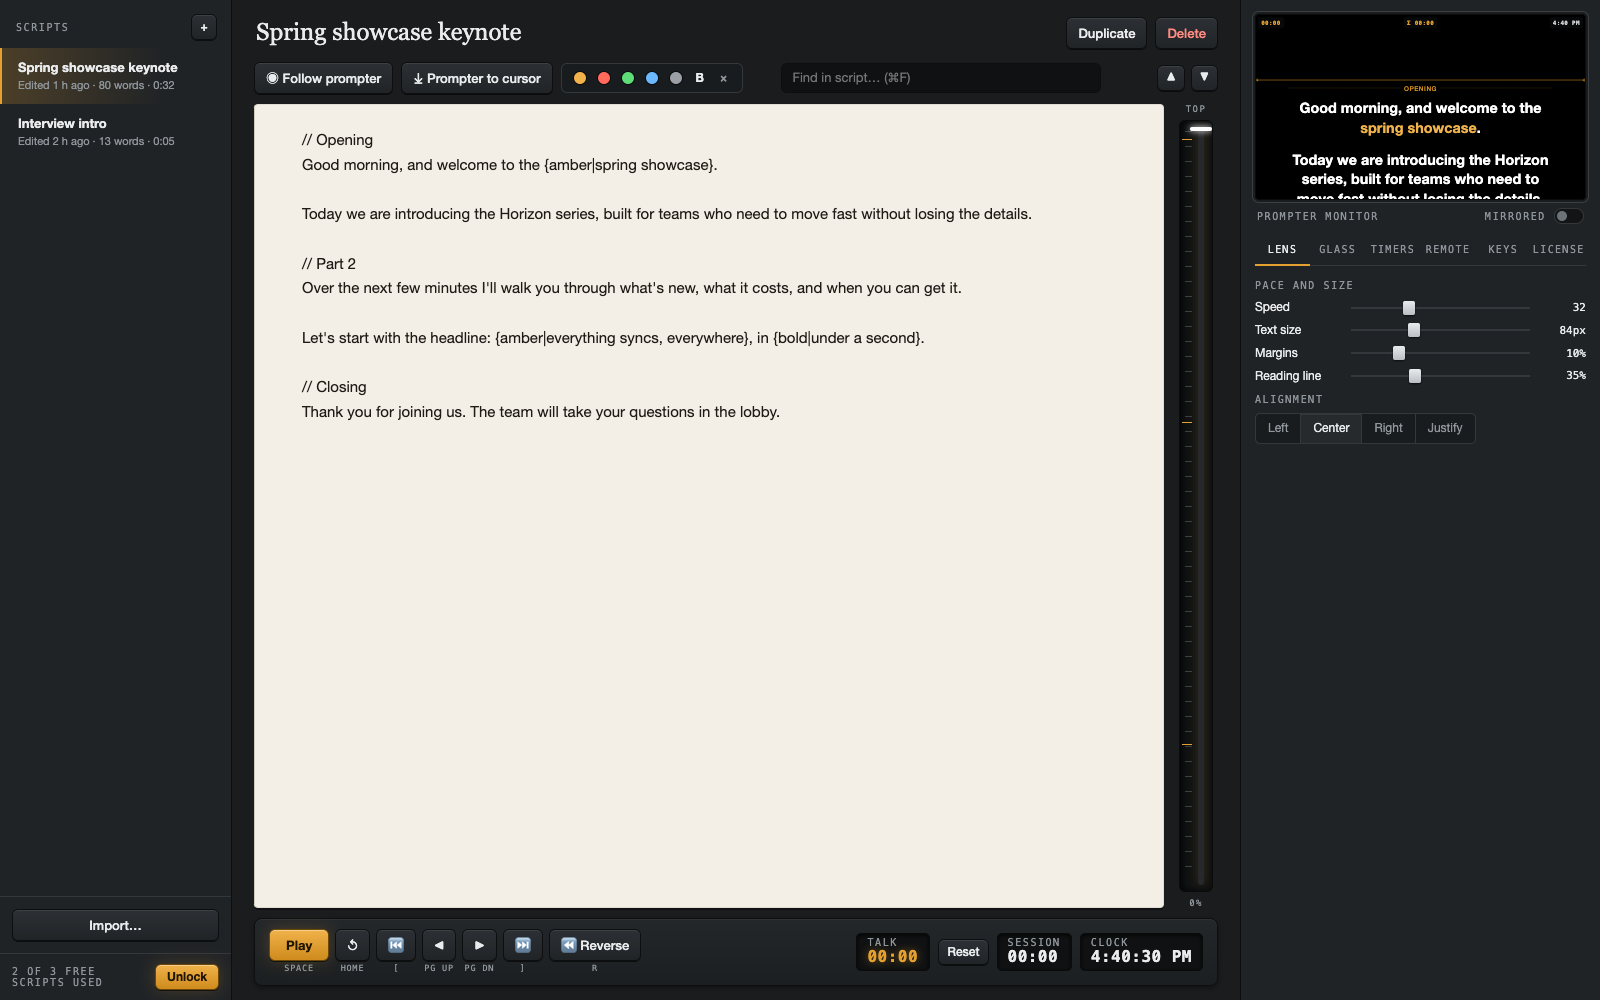
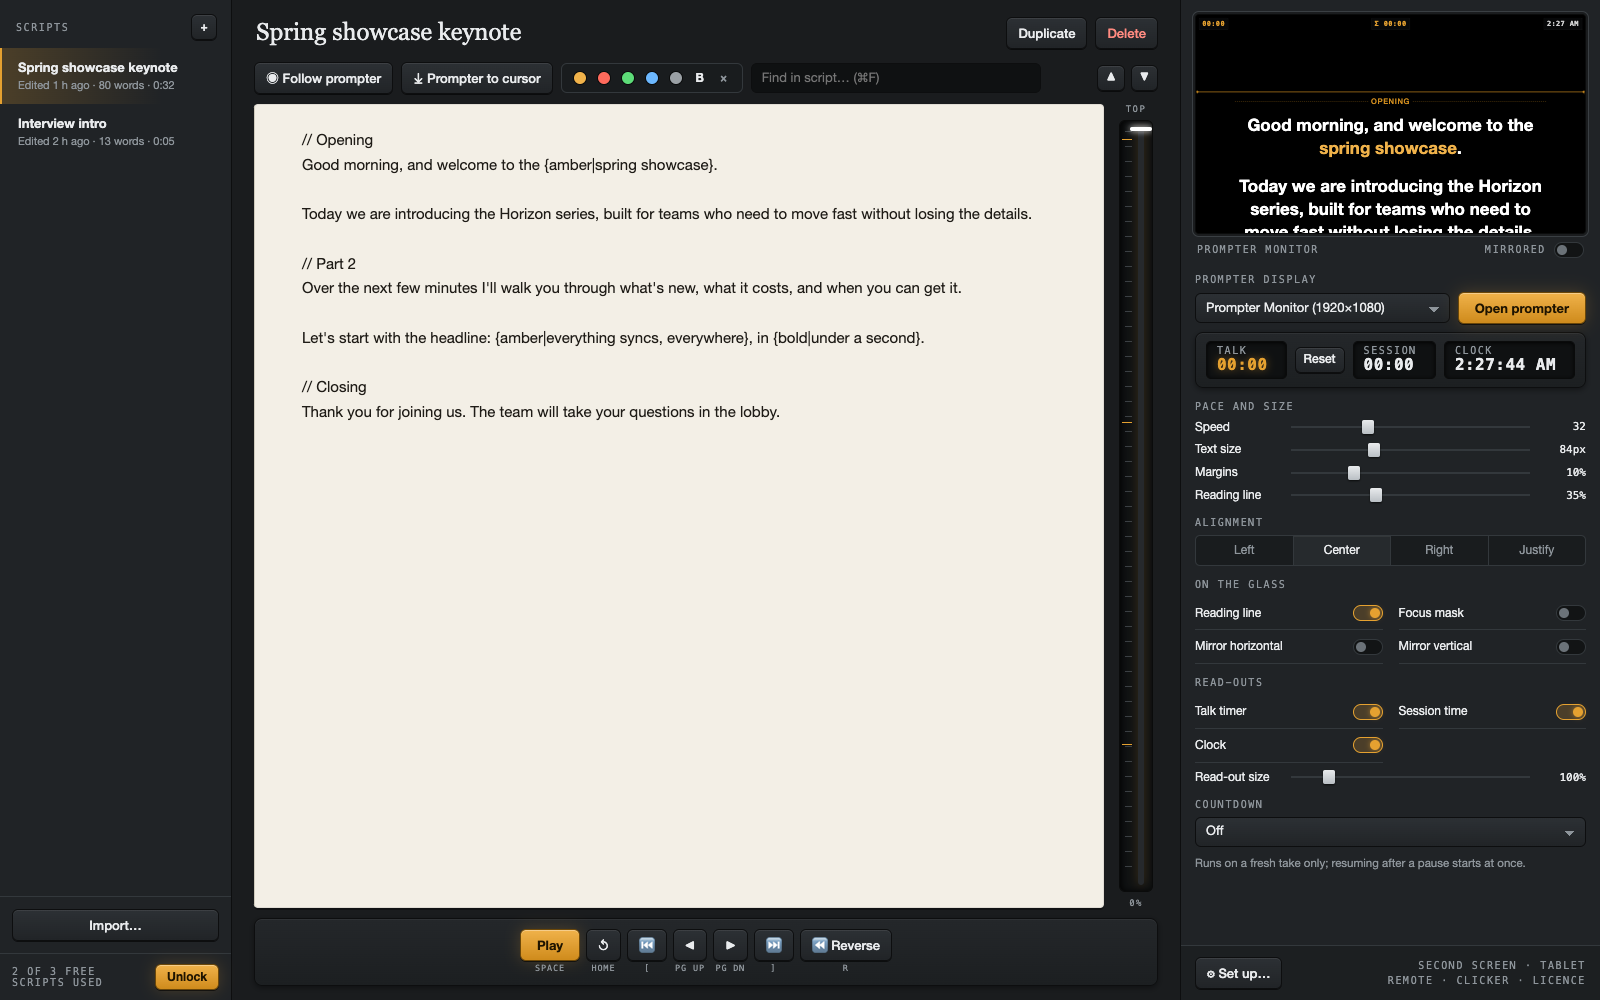
New control window screenshots and copy: live controls on the surface, set-up in a sheet

diff --git a/support.html b/support.html
@@ -23,14 +23,14 @@
   <p>Email <a href="mailto:info@opticallegacy.com">info@opticallegacy.com</a>. Include your platform (Mac or Windows) and, for license questions, the email you used at checkout.</p>
 
   <h2>Free version and unlocking</h2>
-  <p>Your first 3 scripts are free, with every feature; deleting one does not give the slot back. One purchase unlocks unlimited scripts; there is no subscription. On the Mac App Store, use <strong>Unlock</strong> in the app's Unlock tab, or <strong>Restore Purchases</strong> on another Mac signed in with the same Apple ID. On Windows and direct Mac downloads, buy a license key, then paste it into the Unlock tab. A key works on up to 3 of your own computers; use <strong>Deactivate on this computer</strong> before moving it.</p>
+  <p>Your first 3 scripts are free, with every feature; deleting one does not give the slot back. One purchase unlocks unlimited scripts; there is no subscription. On the Mac App Store, use <strong>Unlock</strong> under Set up &rsaquo; License in the app, or <strong>Restore Purchases</strong> on another Mac signed in with the same Apple ID. On Windows and direct Mac downloads, buy a license key, then paste it in under Set up &rsaquo; License. A key works on up to 3 of your own computers; use <strong>Deactivate on this computer</strong> before moving it.</p>
 
   <h2>Lost your key?</h2>
   <p>Search your email for "Lemon Squeezy" and "Just Prompter". If you cannot find it, email us from the address you used at checkout and we will resend it.</p>
 
   <h2>Quick answers</h2>
-  <p><strong>The prompter opened on the wrong screen.</strong> Choose the display in the Glass tab, then click Open prompter again.</p>
-  <p><strong>Text is backwards on my monitor but right in the preview.</strong> That is the mirror setting for your glass. Turn Mirror horizontal off in the Glass tab if you are reading directly from the monitor.</p>
+  <p><strong>The prompter opened on the wrong screen.</strong> Choose the display at the top of the right-hand panel, then click Open prompter again.</p>
+  <p><strong>Text is backwards on my monitor but right in the preview.</strong> That is the mirror setting for your glass. Turn Mirror horizontal off under &ldquo;On the glass&rdquo; in the right-hand panel if you are reading directly from the monitor.</p>
   <p><strong>Keys do nothing.</strong> Click outside the script editor first; keys are ignored while you are typing in it. <kbd>Space</kbd> plays and pauses.</p>
   <p><strong>The phone can't open the remote.</strong> The phone and the computer must be on the same Wi-Fi. If the Wi-Fi blocks devices from seeing each other (common in hotels), share your phone's hotspot to the computer instead.</p>
   <p><strong>How do I colour words?</strong> Select them in the script and click a colour above the page. The app writes a tag like <code>{red|slow down}</code> into the text; you can type one yourself. Colours: amber, red, green, blue, grey, and bold. Plain removes the tag.</p>

diff --git a/index.html b/index.html
@@ -174,7 +174,7 @@
         <li><i>04</i><div><b>Import anything.</b> Text, Markdown, Word, and PDF, dropped on the window or opened from the Dock. Autosaves as you type.</div></li>
       </ul>
     </div>
-    <div class="frame"><img src="img/control.png" alt="The Just Prompter control window: script list, paper editor with position rail, transport keys and timers, and the glass preview with its settings" width="1600" height="1000"></div>
+    <div class="frame"><img src="img/control.png" alt="The Just Prompter control window: script list, paper editor with position rail, transport keys and timers, and the glass preview above every live control" width="1600" height="1000"></div>
   </div>
 </section>
 
@@ -191,7 +191,7 @@
         <li><i>R</i><div><b>Reverse and page jumps.</b> Scroll backwards smoothly, or step by exactly one unread page.</div></li>
       </ul>
     </div>
-    <div class="frame"><img src="img/glass.png" alt="The Glass tab of the control window: display picker, reading line, focus mask, mirror switches, a second screen, and the tablet screen QR code" width="1600" height="1000"></div>
+    <div class="frame"><img src="img/glass.png" alt="The Set up sheet of the control window, open on Screens: a second screen for a confidence monitor and the tablet screen QR code, with the reading line, focus mask, and mirror switches on the panel behind it" width="1600" height="1000"></div>
   </div>
 </section>
 
